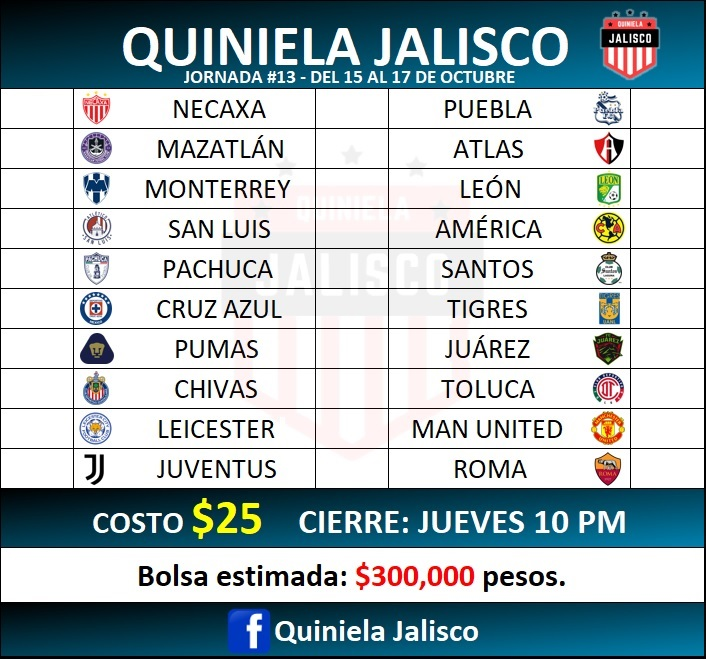
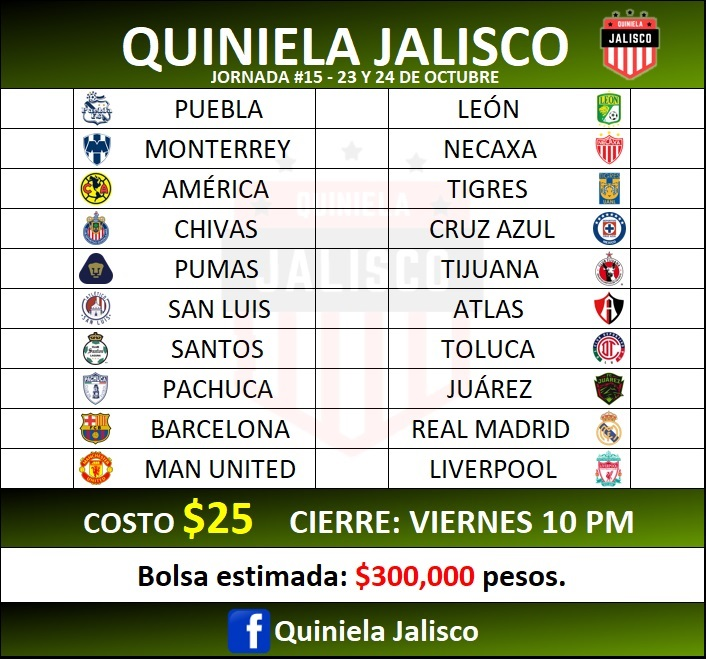
Jornada 15 A21

diff --git a/10/styles10.css b/10/styles10.css
@@ -88,8 +88,8 @@ h1{
     margin-top: 8%;
     border: solid 1px black;
     border-radius: 0 0 14px 14px;
-    background: -webkit-linear-gradient(0.04turn, rgb(0,0,0)  ,rgb(0,127,170) 80%);
-    background: linear-gradient(0.04turn, rgb(0,0,0)  ,rgb(0,127,170) 80%);
+    background: -webkit-linear-gradient(0.04turn, rgb(0,0,0)  ,rgb(101,150,0) 80%);
+    background: linear-gradient(0.04turn, rgb(0,0,0)  ,rgb(101,150,0) 80%);
     font-size: x-large;
 }
 
